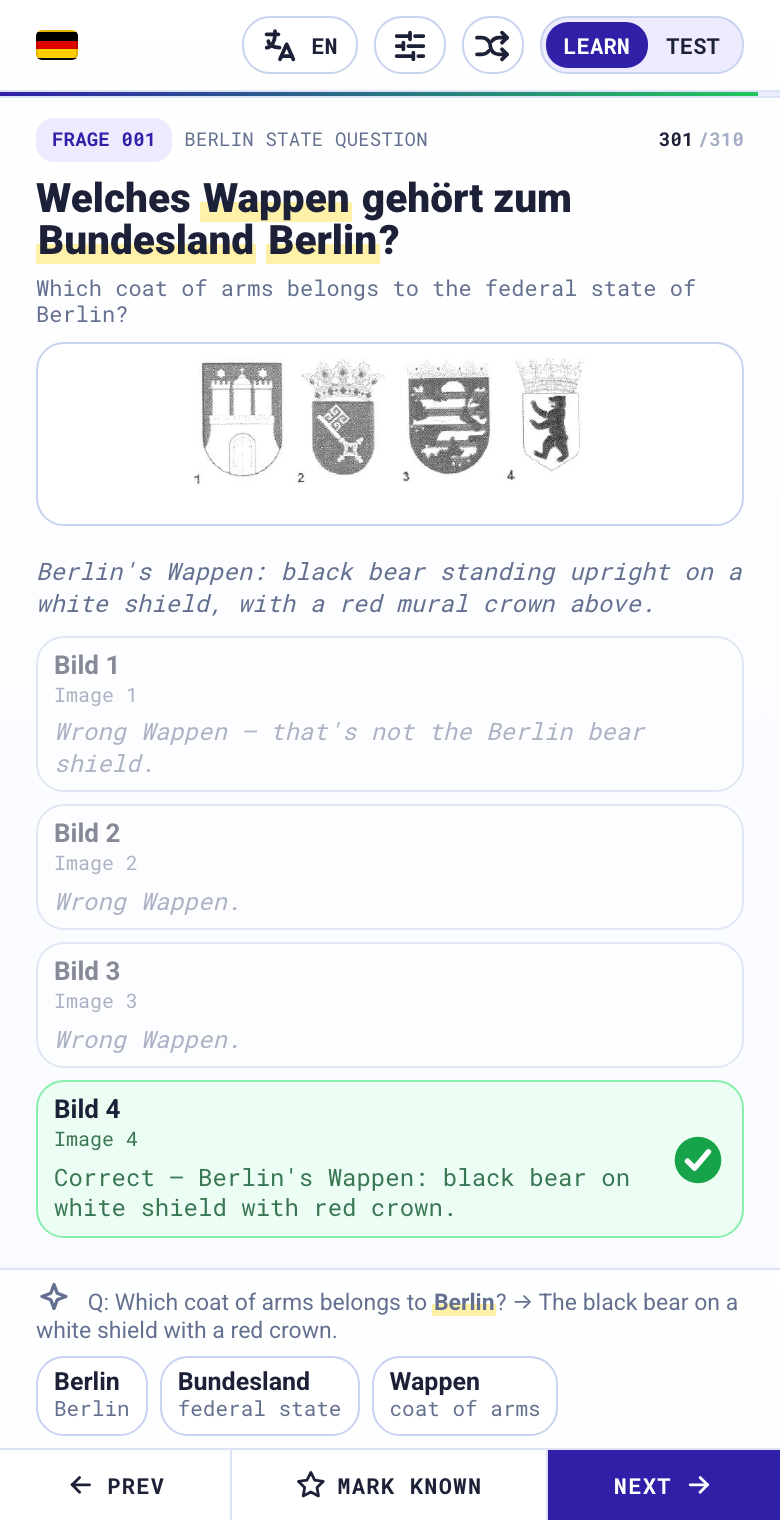
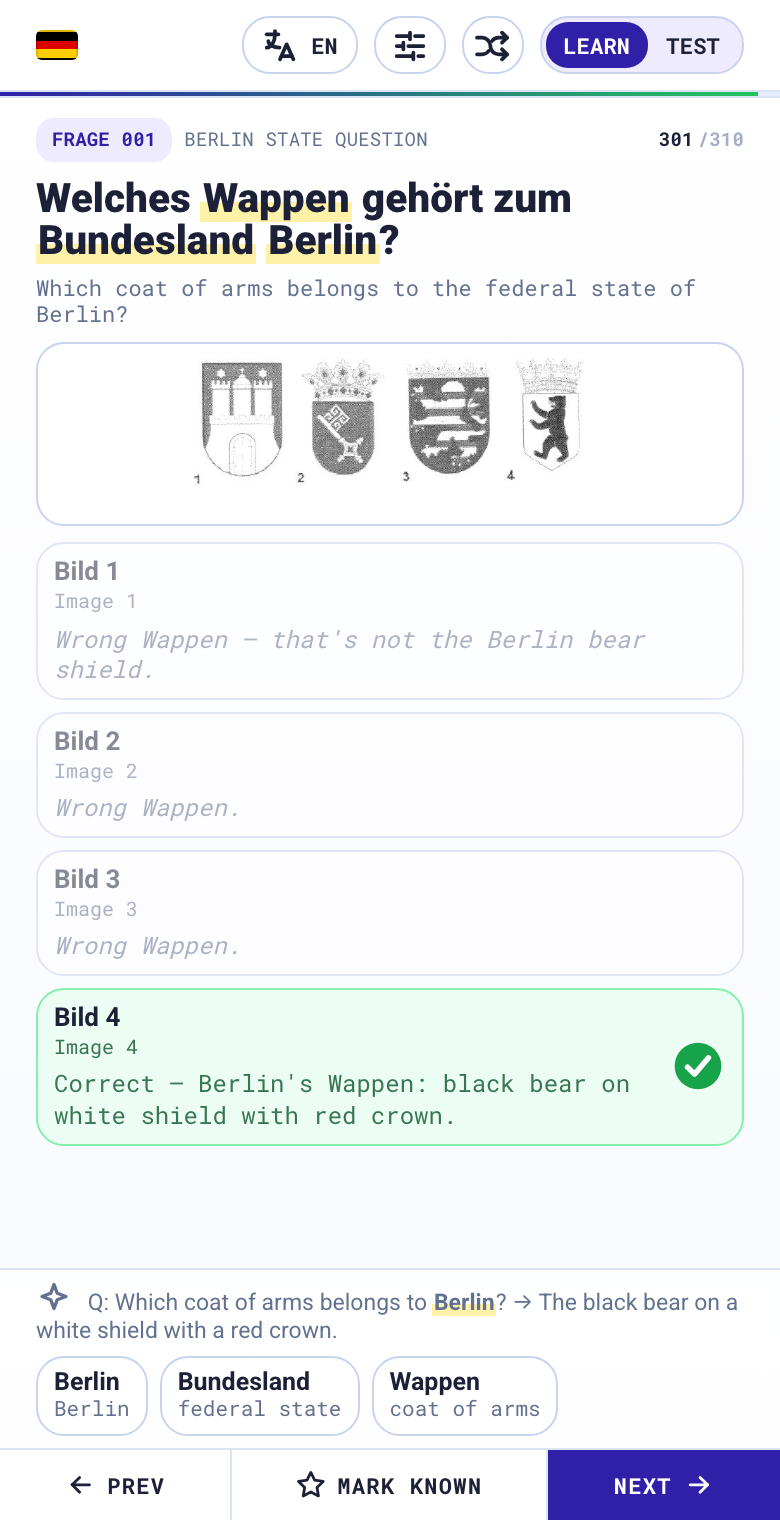
Remove image captions from study cards

diff --git a/styles.css b/styles.css
@@ -1364,16 +1364,6 @@ button {
   color: #8a6a17;
 }
 
-.bp-image-caption {
-  margin: 6px 0 0;
-  font-family: var(--bp-mono);
-  font-size: 12px;
-  line-height: 1.35;
-  color: var(--bp-ink-soft);
-  font-style: italic;
-  text-align: left;
-}
-
 .bp-answer .text .why {
   display: block;
   margin-top: 5px;

diff --git a/app.js b/app.js
@@ -65,7 +65,6 @@ const els = {
   questionText: document.querySelector("#questionText"),
   questionTranslation: document.querySelector("#questionTranslation"),
   questionImage: document.querySelector("#questionImage"),
-  imageCaption: document.querySelector("#imageCaption"),
   questionChips: document.querySelector("#questionChips"),
   answers: document.querySelector("#answers"),
   hintText: document.querySelector("#hintText"),
@@ -488,10 +487,6 @@ function render() {
   } else {
     els.questionImage.removeAttribute("src");
   }
-
-  const caption = t(card.imageCaptionKey);
-  els.imageCaption.hidden = !(card.imageUrl && caption);
-  els.imageCaption.textContent = caption;
 
   renderQuestionChips(card);
 

diff --git a/index.html b/index.html
@@ -194,7 +194,6 @@
         <h1 id="questionText" class="bp-q">Loading...</h1>
         <p id="questionTranslation" class="bp-q-en"></p>
         <img id="questionImage" class="bp-image" alt="Official question image" />
-        <p id="imageCaption" class="bp-image-caption" hidden></p>
 
         <ul id="answers" class="bp-answers"></ul>
 

diff --git a/CONTEXT.md b/CONTEXT.md
@@ -44,10 +44,6 @@ _Avoid_: Hint, footnote
 A **Question** whose wording is identical to an earlier **Question** in the catalog. Surfaced as a chip pointing to the earlier **Question**.
 _Avoid_: Repeat, alias
 
-**Image Caption**:
-A short visual mnemonic shown beneath an image-based **Question** so the learner remembers the correct image even when the option order shifts.
-_Avoid_: Alt text, description
-
 **Answer Variant Note**:
 A note shown on the **Test Result** review when the same **Question** can appear with slightly different wording on the real exam.
 _Avoid_: Warning, disclaimer
@@ -72,7 +68,6 @@ _Avoid_: Warning, disclaimer
 - An unfinished **Test Session** can resume after refresh.
 - A **Distractor Explanation** appears only after correctness is revealed for the **Question**.
 - A **Duplicate Question** carries a chip linking back to the canonical (lower-numbered) **Question**.
-- An **Image Caption** describes the correct image conceptually, not by position number.
 - An **Answer Variant Note** only appears on the **Test Result** review, not during the live **Question**.
 
 ## Example dialogue